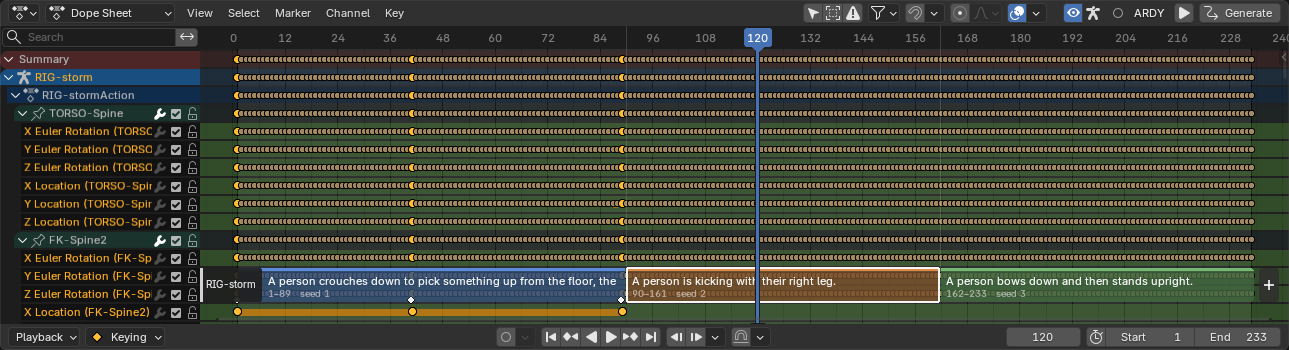
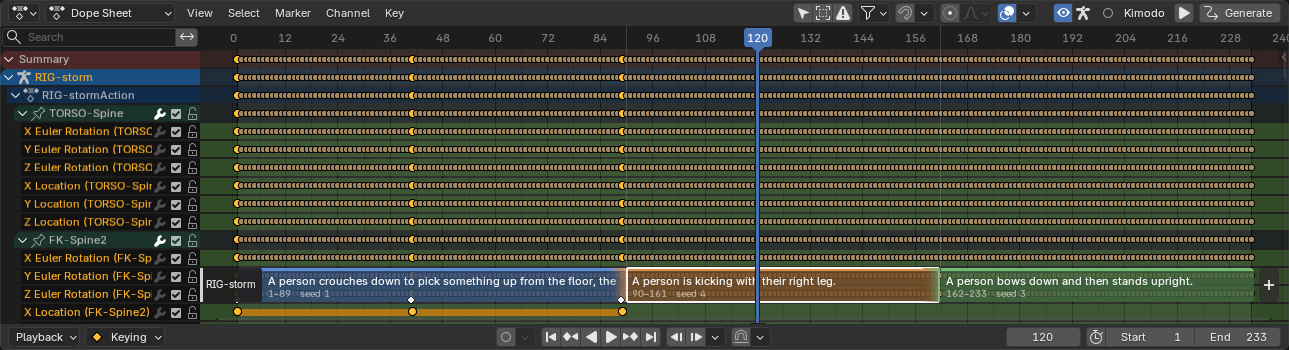
README images: the motion generated by Kimodo
The same key poses and prompts, generated with Kimodo: it bows in the third
segment, and the regenerated segment kicks higher (seed 4).

Changed region(s): [[0.5896, 0.0, 0.8999, 0.0571], [0.7137, 0.7714, 0.7448, 0.8571], [0.4655, 0.7714, 0.4965, 0.8571]]

diff --git a/README.md b/README.md
@@ -22,7 +22,7 @@ Interpose is a Blender extension for animators. You keep your rig, its controls 
 
 ![The second segment, "A person side steps to the right.", next to the same segment regenerated with "A person is kicking with their right leg."; the rest of the track is unchanged](docs/regenerate.webp)
 
-<sub>Character: [Storm](https://studio.blender.org/characters/storm) by Blender Studio ([CC-BY 4.0](https://creativecommons.org/licenses/by/4.0/)), rigged with CloudRig. Motion generated by ARDY.</sub>
+<sub>Character: [Storm](https://studio.blender.org/characters/storm) by Blender Studio ([CC-BY 4.0](https://creativecommons.org/licenses/by/4.0/)), rigged with CloudRig. Motion generated by Kimodo.</sub>
 
 ## Features
 
